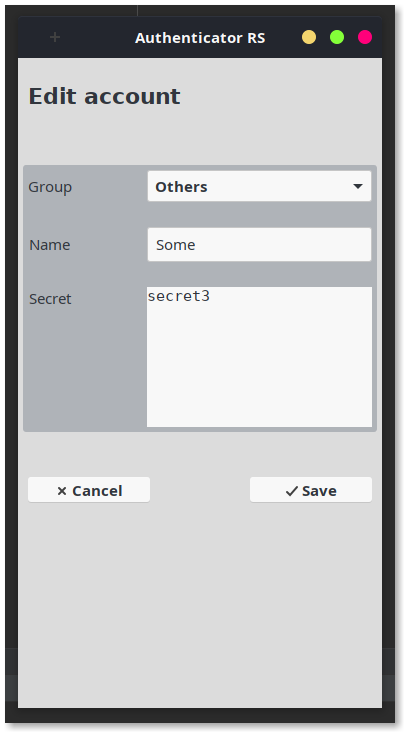
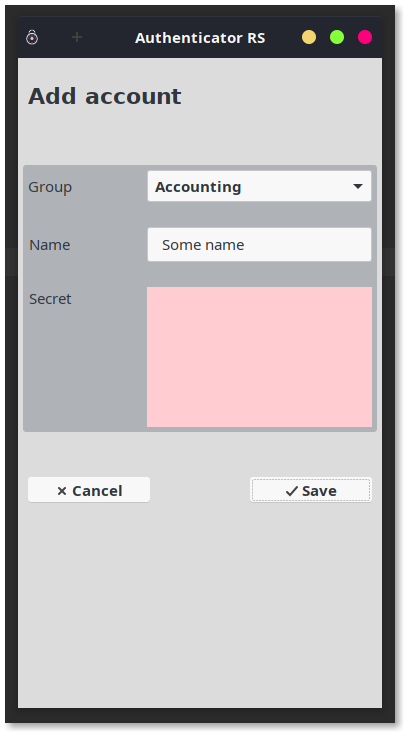
Styling buttons
Styling buttons

diff --git a/src/resources/style.css b/src/resources/style.css
@@ -13,6 +13,18 @@
 }
 
 .account_box, .form_container {
-    background-color: rgba(147,153,161,0.62);
+    background-color: rgba(147, 153, 161, 0.62);
     border-radius: 3px;
+}
+
+/* flattening group label buttons */
+.group_label_button {
+    background-color: transparent;
+    border-width: 0px;
+    box-shadow: none;
+    padding: 0px;
+}
+
+.group_label_button:hover {
+    color: white;
 }

diff --git a/src/main_window.rs b/src/main_window.rs
@@ -12,7 +12,7 @@ use crate::helpers::ConfigManager;
 use crate::ui;
 use crate::ui::{AccountsWindow, AddGroupWindow, EditAccountWindow};
 use futures_executor::ThreadPool;
-use gtk::{Orientation, PositionType};
+use gtk::{Align, Orientation, PositionType};
 use rusqlite::Connection;
 use std::rc::Rc;
 
@@ -100,24 +100,52 @@ impl MainWindow {
             .show_close_button(true)
             .events(gdk::EventMask::ALL_EVENTS_MASK)
             .title("Authenticator RS")
-            .decoration_layout("button:minimize,maximize,close")
             .build();
 
+        let main_icon = gtk::ImageBuilder::new()
+            .icon_name("uk.co.grumlimited.authenticator-rs")
+            .build();
         let add_image = gtk::ImageBuilder::new().icon_name("list-add").build();
 
         let popover = gtk::PopoverMenuBuilder::new()
             .position(PositionType::Bottom)
             .build();
 
+        let menu_width = 130_i32;
+
+        let buttons_container = gtk::BoxBuilder::new()
+            .orientation(Orientation::Vertical)
+            .hexpand(true)
+            .width_request(menu_width)
+            .build();
+
         let add_account_button = gtk::ButtonBuilder::new()
             .label("Add account")
+            .hexpand_set(true)
+            .width_request(menu_width)
             .margin(3)
             .build();
 
         let add_group_button = gtk::ButtonBuilder::new()
             .label("Add group")
+            .halign(Align::Start)
+            .width_request(menu_width)
             .margin(3)
             .build();
+
+        // forcing labels in menu buttons to left-align
+        add_group_button
+            .get_child()
+            .unwrap()
+            .downcast_ref::<gtk::Label>()
+            .unwrap()
+            .set_xalign(0f32);
+        add_account_button
+            .get_child()
+            .unwrap()
+            .downcast_ref::<gtk::Label>()
+            .unwrap()
+            .set_xalign(0f32);
 
         {
             let popover = popover.clone();
@@ -141,19 +169,16 @@ impl MainWindow {
             });
         }
 
-        let buttons_container = gtk::BoxBuilder::new()
-            .orientation(Orientation::Vertical)
-            .build();
-
         popover.add(&buttons_container);
 
         buttons_container.pack_start(&add_account_button, false, false, 0);
         buttons_container.pack_start(&add_group_button, false, false, 0);
 
-        let menu = gtk::MenuButtonBuilder::new()
+        let action_menu = gtk::MenuButtonBuilder::new()
             .image(&add_image)
             .margin_start(15)
             .use_popover(true)
+            .halign(Align::Start)
             .popover(&popover)
             .build();
 
@@ -162,7 +187,7 @@ impl MainWindow {
             let add_account_button = add_account_button.clone();
             let popover = popover.clone();
 
-            menu.connect_clicked(move |_| {
+            action_menu.connect_clicked(move |_| {
                 let widgets = widgets.lock().unwrap();
 
                 // can't add account if no groups
@@ -219,7 +244,8 @@ impl MainWindow {
             });
         }
 
-        titlebar.add(&menu);
+        titlebar.pack_start(&main_icon);
+        titlebar.pack_start(&action_menu);
         self.window.set_titlebar(Some(&titlebar));
 
         titlebar.show_all();
@@ -243,7 +269,6 @@ impl MainWindow {
 
         progress_bar.show();
         self.accounts_window.container.show();
-        // self.accounts_window.stack.show();
         self.window.show();
     }
 

diff --git a/src/model/account_group.rs b/src/model/account_group.rs
@@ -52,9 +52,19 @@ impl AccountGroup {
         let group_label_button = gtk::ButtonBuilder::new()
             .label(self.name.as_str())
             .height_request(32)
-            .hexpand(false)
             .halign(Align::Start)
             .build();
+
+        let style_context = group_label_button.get_style_context();
+        style_context.add_class("group_label_button");
+
+        // forcing labels in menu buttons to left-align
+        group_label_button
+            .get_child()
+            .unwrap()
+            .downcast_ref::<gtk::Label>()
+            .unwrap()
+            .set_xalign(0f32);
 
         let group_label_entry = gtk::EntryBuilder::new()
             .margin_end(5)
